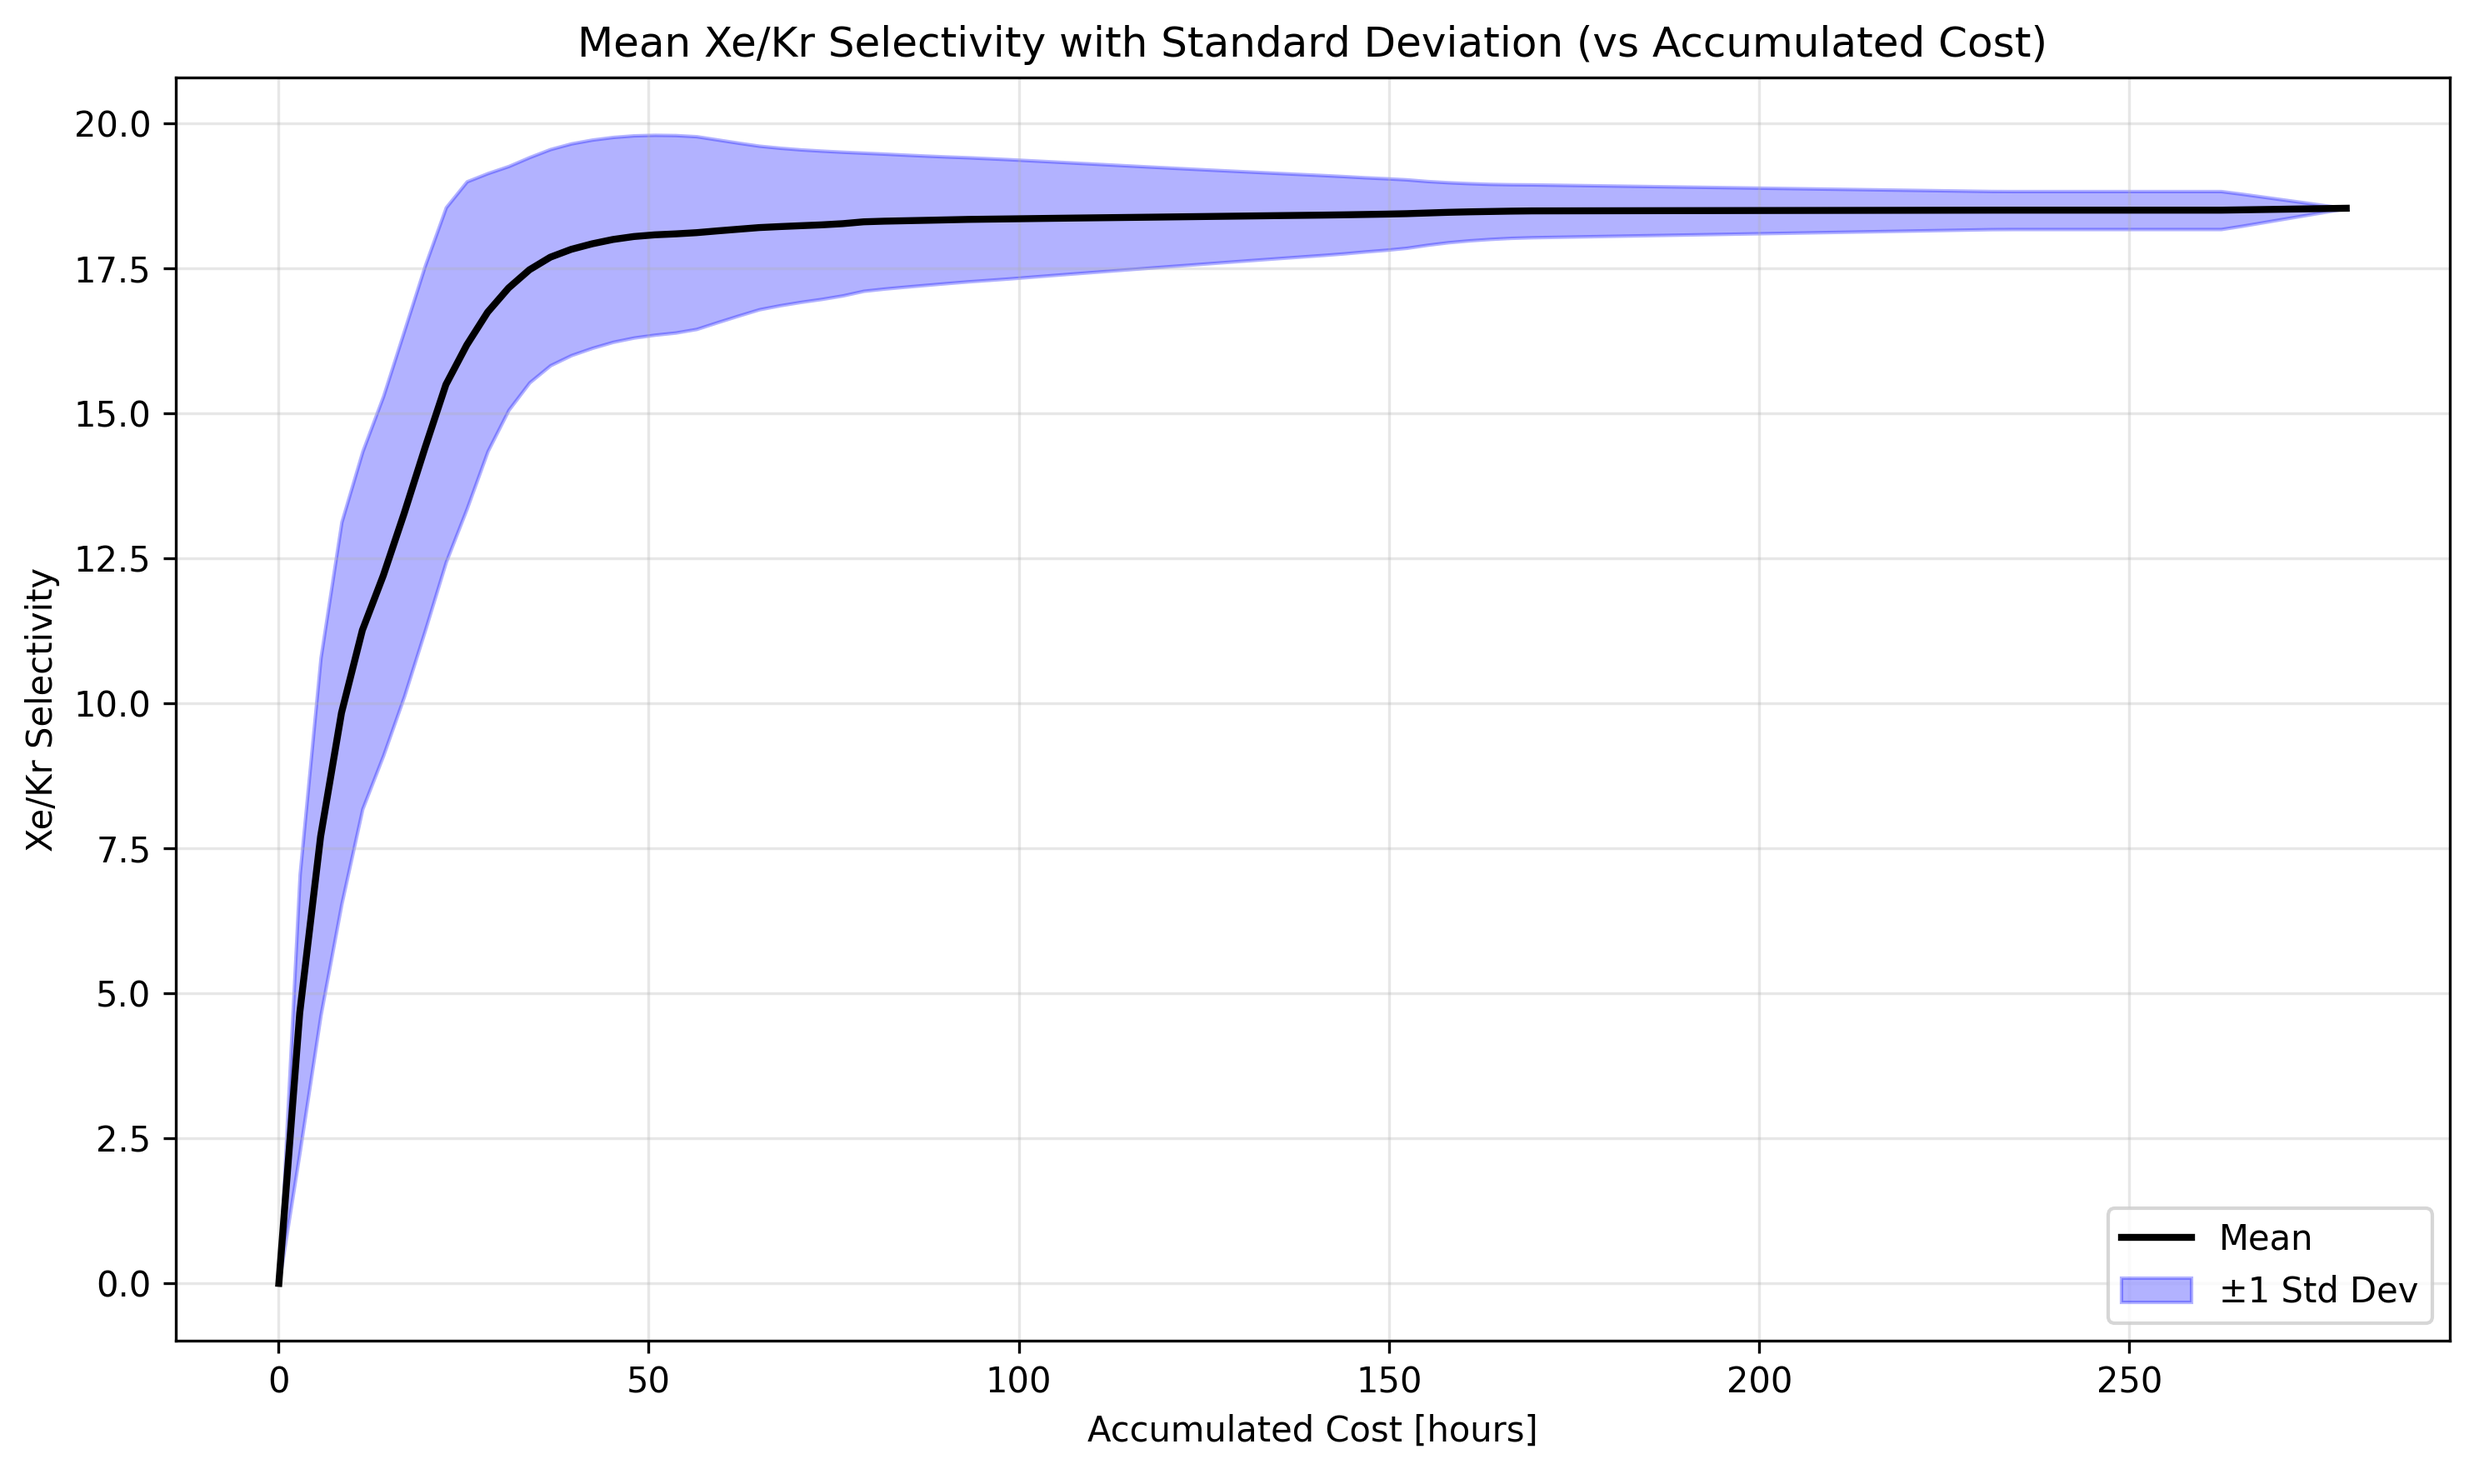
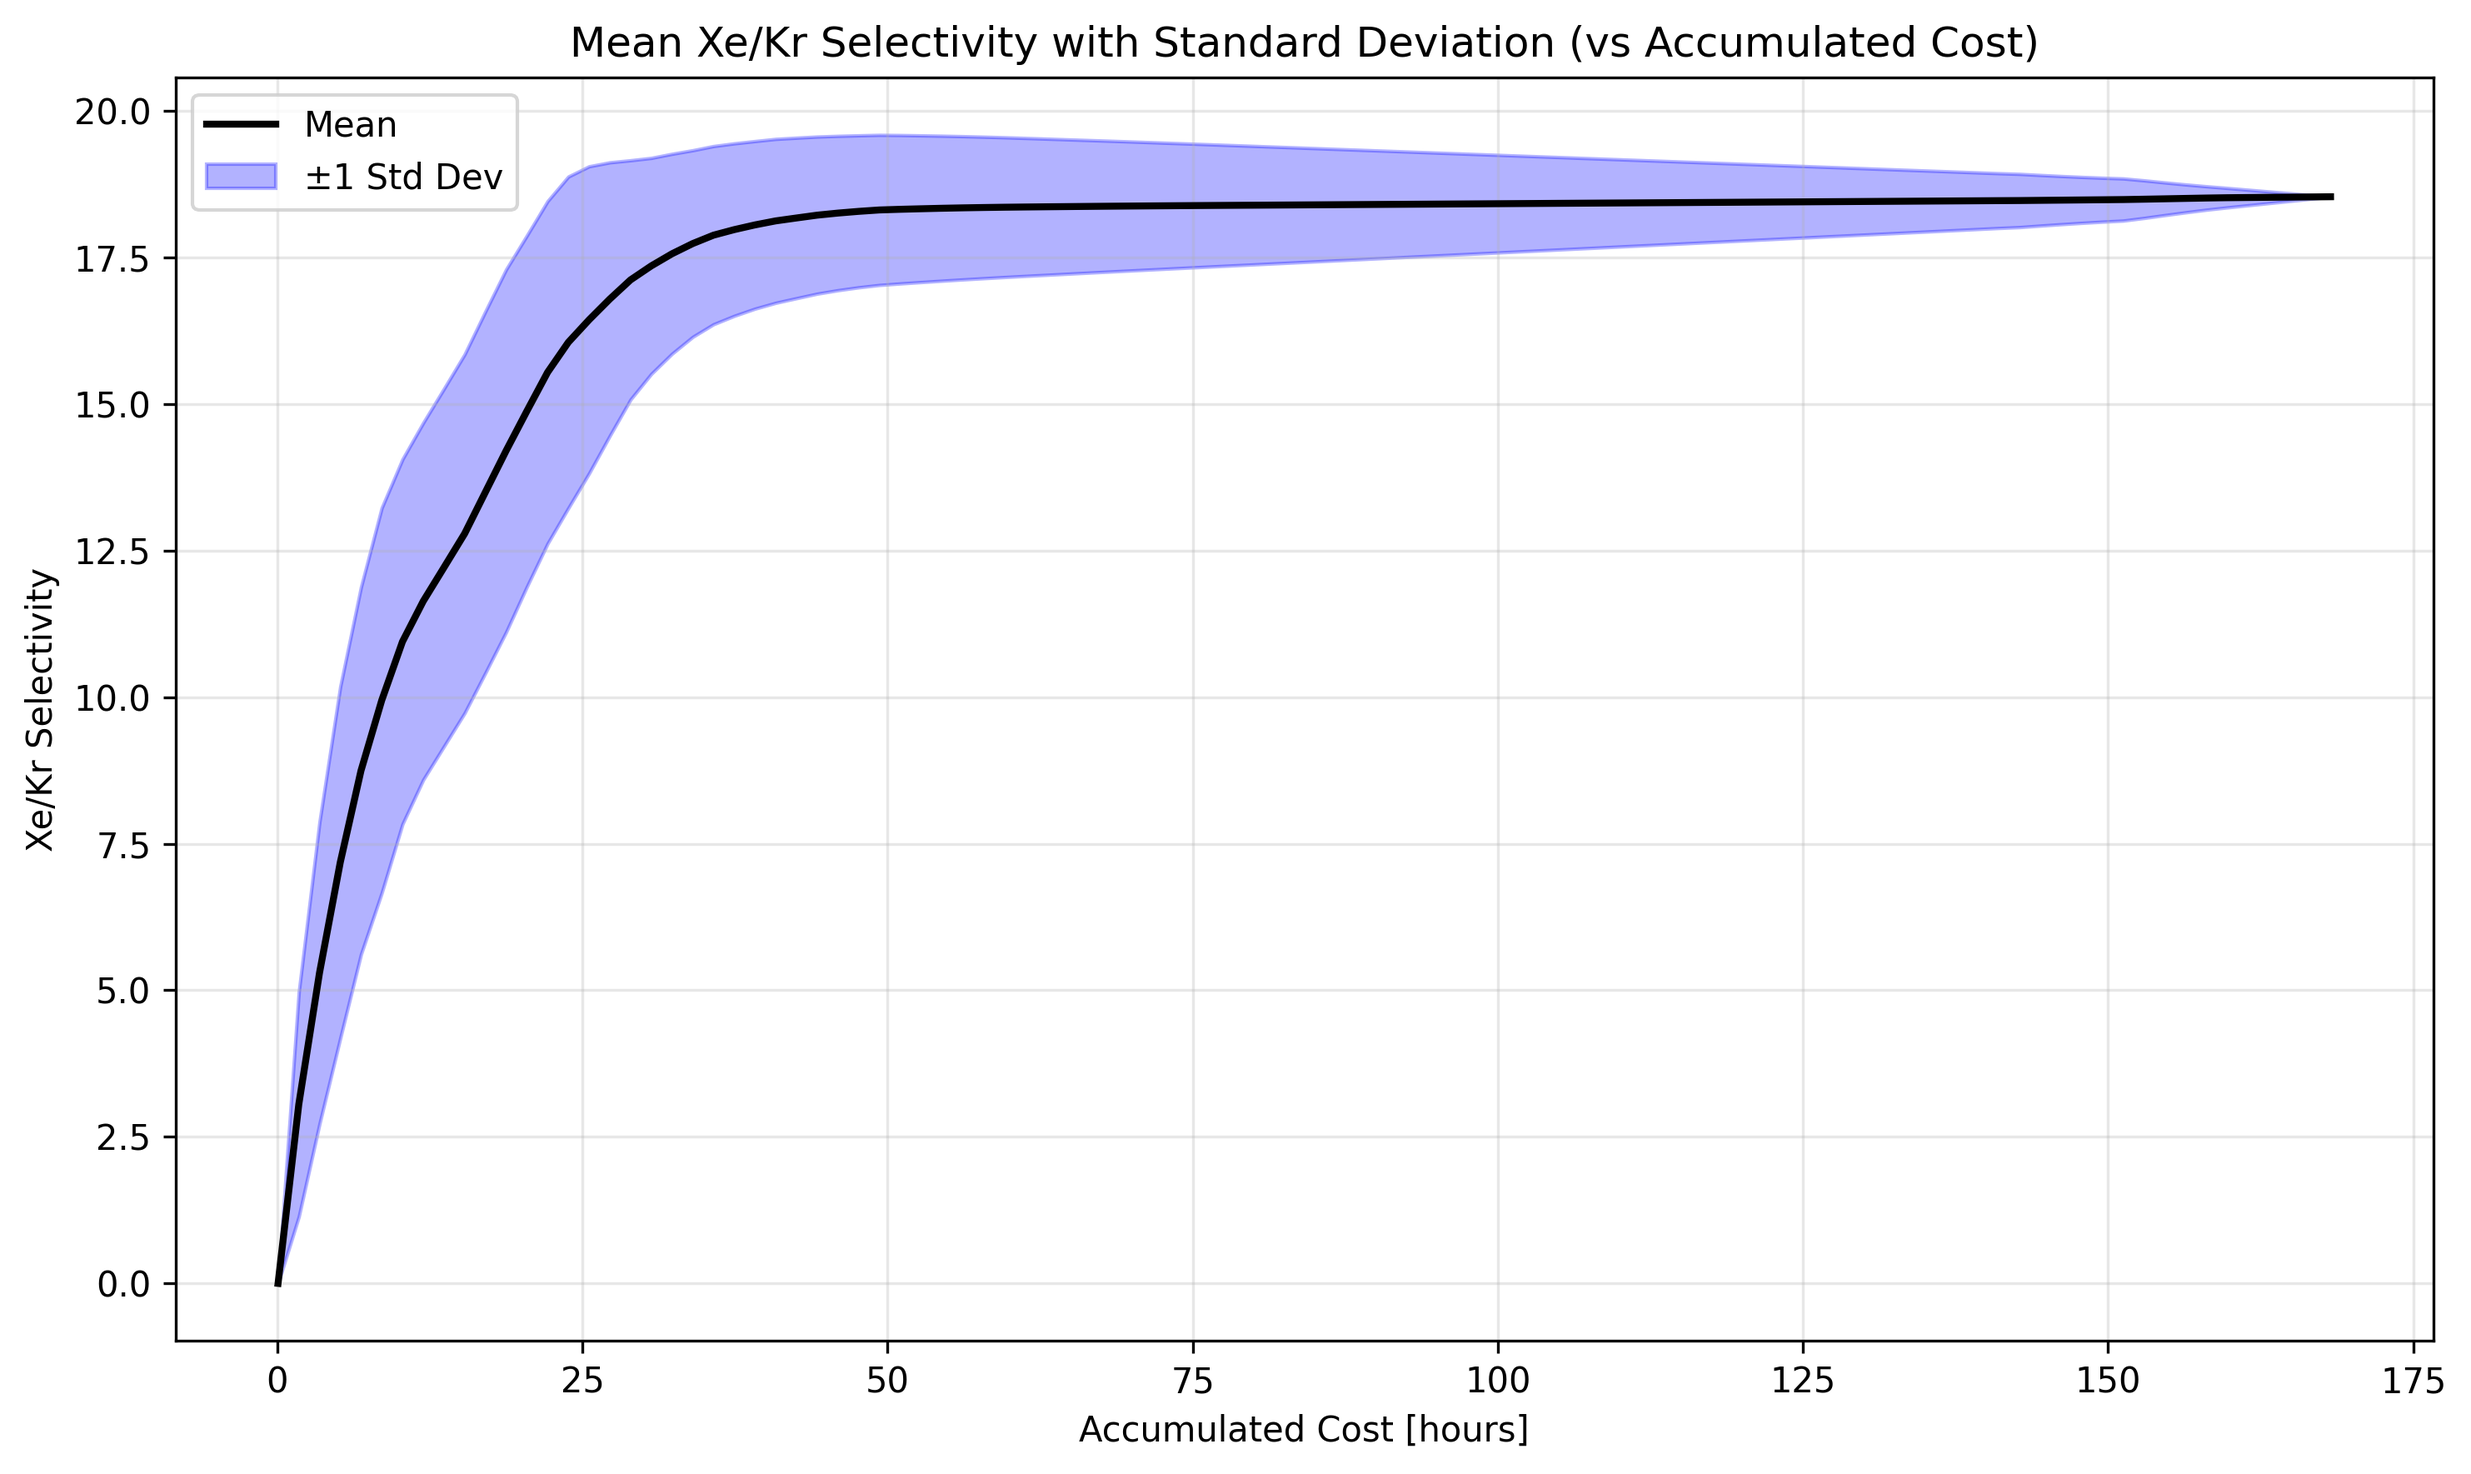
Exclude _ablation.pkl from figures

diff --git a/search_results/mfbo/Original/pickle_cracker_v05.py b/search_results/mfbo/Original/pickle_cracker_v05.py
@@ -16,7 +16,7 @@ pickle_dirs = [
 # Collect all pickle files from the listed folders
 files = []
 for d in pickle_dirs:
-    folder_files = [os.path.join(d, f) for f in os.listdir(d) if f.endswith(".pkl")]
+    folder_files = [os.path.join(d, f) for f in os.listdir(d) if f.endswith(".pkl") and "_ablation" not in f]
     print(f"Found {len(folder_files)} pickle files in {d}")
     files.extend(folder_files)
 
